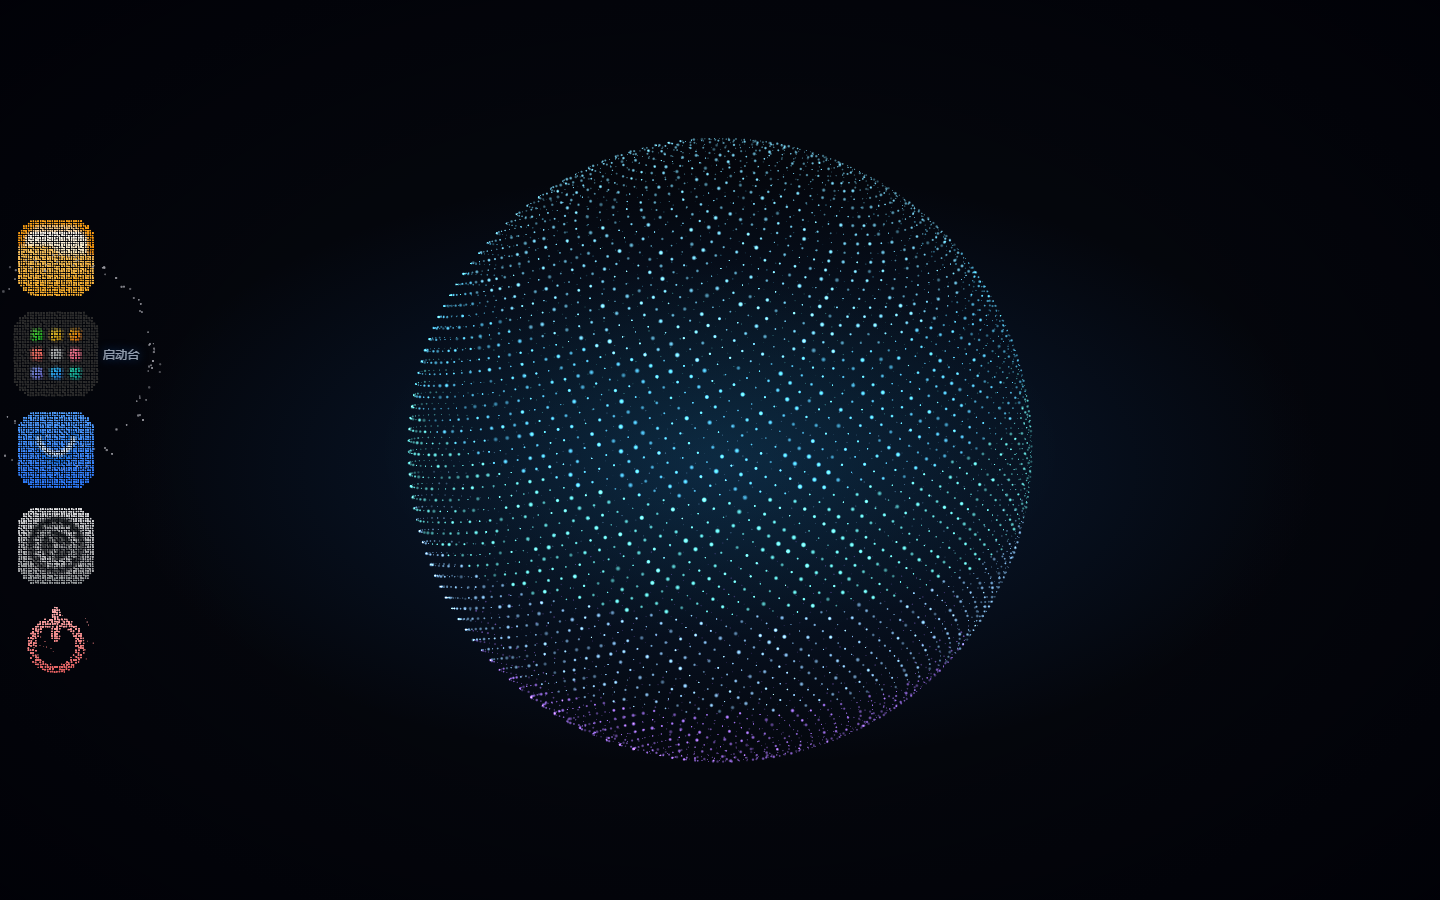
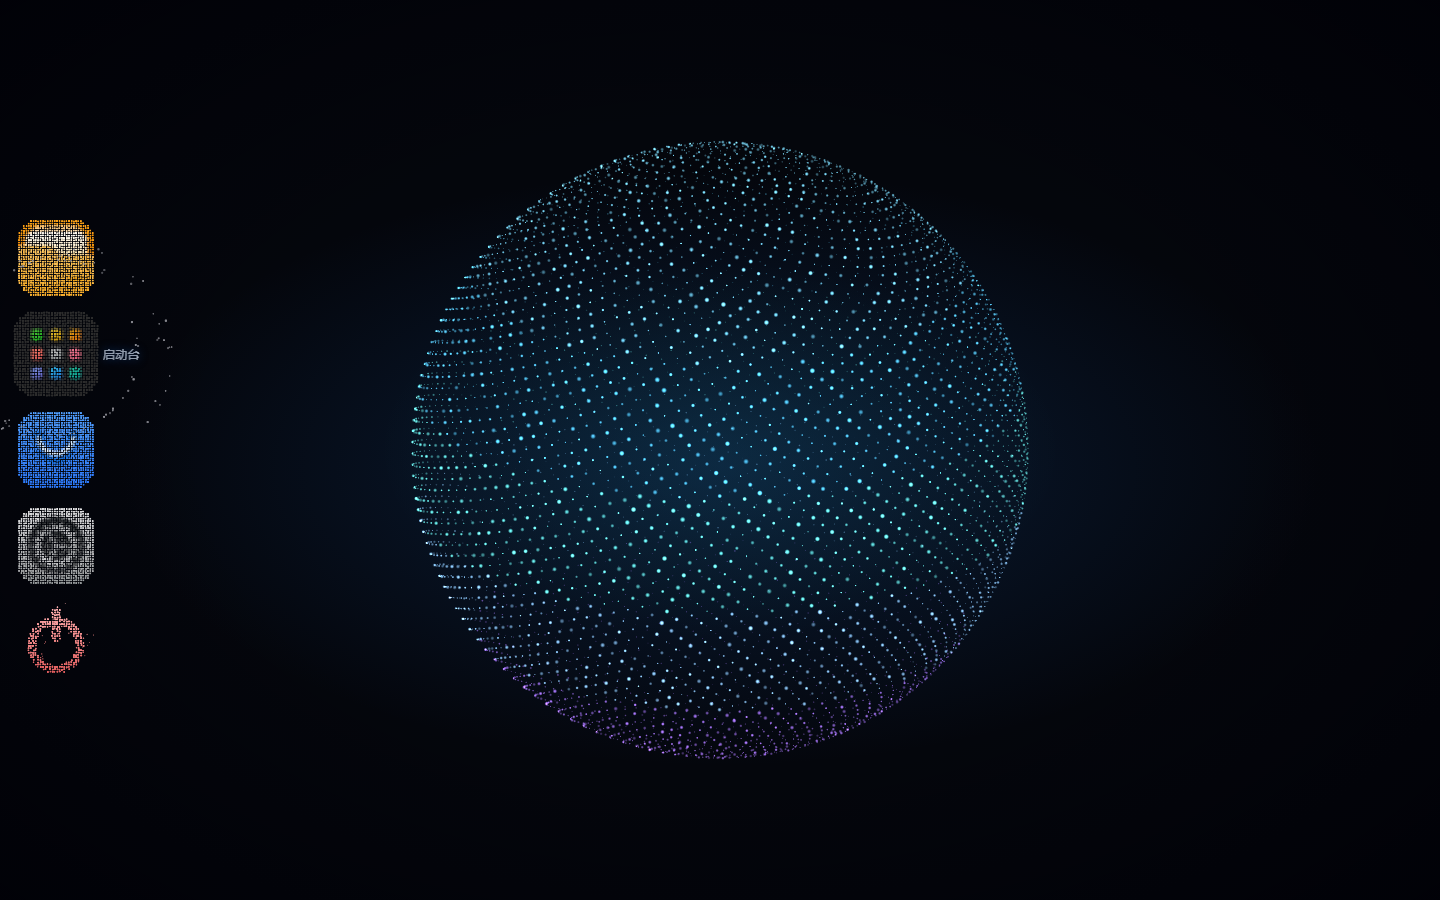
refactor(shell): 去掉跟随光标的粒子层
跨域 iframe 里跟不了手：指针一进窗口内容，父文档就再也收不到 pointermove，
坐标会冻在跨过边界那一点，粒子站在原地不动——比没有还难受。所以这一层整个撤掉。

- 删掉 curGeo / curMat / curPoints（独立普通混合层）与 cPos/cCol/cSize/cAlpha
- 删掉光标专用的 pointermove / pointerover / pointerout / blur 监听（那是为它加的）
- ambient 不再有 1/6 被"征用"，开窗后全部去窗口外缘的日冕；中央一颗不留
- README 与截图同步：窗口那张现在是干净的内容区 + 一圈日冕

diff --git a/shell/src/field.js b/shell/src/field.js
@@ -267,17 +267,6 @@ export class Field {
     this.railActive = -1;              // 已打开应用对应的图标
     this.railDirty = false;
 
-    /* --- 光标周围那一撮（唯一进到窗口中央的粒子）---
-     * 单独一层、**普通透明混合**：背景那团是加法发光，叠在浅色 iframe 上等于看不见
-     * （白底加白点还是白），只能靠普通 alpha 才会显出青色的点。
-     * 每颗点按 i % 11 从 ambient 里"借"，位置不是弹簧算的，直接绕光标转。 */
-    const cn = Math.ceil(AMBIENT_N / 6);
-    this.curN = cn;
-    this.cPos = new Float32Array(cn * 3);
-    this.cCol = new Float32Array(cn * 3);
-    this.cSize = new Float32Array(cn);
-    this.cAlpha = new Float32Array(cn);
-
     /* --- 设备状态面板（右下角）---
      * 和 rail 同构：每颗点记着"从团里哪出发、目标在哪、什么时候出发"，
      * 位置由流的进度决定。区别是这里的目标会**被数据改**
@@ -360,13 +349,6 @@ export class Field {
     this.yawV = 0;
     this.pitchV = 0;
     this.dragging = false;
-
-    /* 鼠标位置（CSS px，视口左上角原点）。只有"有窗口"时才用得上：
-     * 留一小撮粒子跟着光标绕，其余全在窗口外面流。 */
-    this.mx = this.W / 2;
-    this.my = this.H / 2;
-    this.mouseOn = false;
-    this.inFrame = false;    // 指针在 iframe 里：坐标会冻在跨过边界那一点
 
     /* 心跳 */
     this.beat = 0;           // 当前包络 0..1
@@ -546,53 +528,10 @@ export class Field {
     this.statPoints.frustumCulled = false;
     this.statPoints.renderOrder = 3;
 
-    /* ---- 光标粒子层：压在窗口内容之上，用普通混合 ----
-       柔和圆点（不是 rail 的圆角方块，那个是给图标密铺用的）。
-       renderOrder 给到最大：窗口内容和日冕都画完之后才轮到它。 */
-    this.curGeo = new THREE.BufferGeometry();
-    this.curGeo.setAttribute('position', new THREE.BufferAttribute(this.cPos, 3).setUsage(THREE.DynamicDrawUsage));
-    this.curGeo.setAttribute('aColor', new THREE.BufferAttribute(this.cCol, 3).setUsage(THREE.DynamicDrawUsage));
-    this.curGeo.setAttribute('aSize', new THREE.BufferAttribute(this.cSize, 1).setUsage(THREE.DynamicDrawUsage));
-    this.curGeo.setAttribute('aAlpha', new THREE.BufferAttribute(this.cAlpha, 1).setUsage(THREE.DynamicDrawUsage));
-
-    this.curMat = new THREE.ShaderMaterial({
-      uniforms: { uDpr: { value: 1 } },
-      vertexShader: `
-        attribute float aSize; attribute float aAlpha; attribute vec3 aColor;
-        varying vec3 vColor; varying float vAlpha;
-        uniform float uDpr;
-        void main(){
-          vColor = aColor; vAlpha = aAlpha;
-          vec4 mv = modelViewMatrix * vec4(position, 1.0);
-          gl_Position = projectionMatrix * mv;
-          gl_PointSize = aSize * uDpr;
-        }`,
-      fragmentShader: `
-        varying vec3 vColor; varying float vAlpha;
-        void main(){
-          /* 圆点，边缘留一点点柔化：pow 太软会整层糊成"蓝雾"（试过 1.6），
-             这里芯是实的、只在外沿 40% 化开 */
-          float d = length(gl_PointCoord - 0.5) * 2.0;
-          if (d > 1.0) discard;
-          float a = smoothstep(1.0, 0.58, d);
-          gl_FragColor = vec4(vColor, a * vAlpha);
-        }`,
-      transparent: true,
-      depthTest: false,
-      depthWrite: false,
-      blending: THREE.NormalBlending,
-    });
-
-    this.curPoints = new THREE.Points(this.curGeo, this.curMat);
-    this.curPoints.frustumCulled = false;
-    this.curPoints.renderOrder = 6;
-
-
     this.scene = new THREE.Scene();
     this.scene.add(this.points);
     this.scene.add(this.railPoints);
     this.scene.add(this.statPoints);
-    this.scene.add(this.curPoints);
 
     this.renderer = new THREE.WebGLRenderer({ canvas, antialias: false, alpha: true, powerPreference: 'high-performance' });
     this.renderer.setClearColor(0x000000, 0);
@@ -697,34 +636,6 @@ export class Field {
     window.addEventListener('pointerup', up);
     window.addEventListener('pointercancel', up);
 
-    /* 光标的**全局**位置：上面那个 move 只在"按住"时工作，而这一小撮跟着光标的
-       粒子需要一直知道它在哪。没有 pointermove 时（指针移出窗口）就把光圈收掉。 */
-    window.addEventListener('pointermove', (e) => {
-      this.mx = e.clientX;
-      this.my = e.clientY;
-      this.mouseOn = true;
-      this.inFrame = false;     // 能从父文档收到 move，说明指针不在 iframe 里
-    }, { passive: true });
-    /* 指针进 / 出 iframe：父文档只在**跨过边界那一下**收到事件，之后移动全被 iframe
-       吞掉（跨文档，拿不到坐标）。所以要记住这一下：一是别把它误判成"指针离开桌面"
-       （跨文档时 relatedTarget 也是 null），二是让光圈知道该切到"跟不动"的形态。 */
-    document.addEventListener('pointerover', (e) => {
-      const inF = !!e.target && e.target.tagName === 'IFRAME';
-      this.inFrame = inF;
-      if (inF) {
-        this.mx = e.clientX;
-        this.my = e.clientY;
-        this.mouseOn = true;
-      }
-    }, { passive: true });
-    document.addEventListener('pointerout', (e) => {
-      if (e.relatedTarget) return;
-      /* relatedTarget 为 null 有两种情况：真的移出视口、或指针进了 iframe。
-         只有坐标贴在视口边缘才当它离开（否则窗口内容一悬停，光圈就没了）。 */
-      if (e.clientX <= 0 || e.clientY <= 0
-        || e.clientX >= this.W - 1 || e.clientY >= this.H - 1) this.mouseOn = false;
-    }, { passive: true });
-    window.addEventListener('blur', () => { if (!this.inFrame) this.mouseOn = false; });
   }
 
   /**
@@ -792,7 +703,6 @@ export class Field {
     this.renderer.setSize(this.W, this.H, true);
     this.mat.uniforms.uDpr.value = dpr;
     this.railMat.uniforms.uDpr.value = dpr;
-    this.curMat.uniforms.uDpr.value = dpr;
     this.cam.left = -this.W / 2;
     this.cam.right = this.W / 2;
     this.cam.top = this.H / 2;
@@ -1816,12 +1726,6 @@ export class Field {
       );
       bandMax = clamp(room * 0.94, 6, AURA_MAX);
     }
-    /* 跟着光标的那一小撮（每 6 颗取 1 颗 ≈ 17%）：只有"有窗口"时才出现 */
-    const mw = this.mouseOn && auraW > 0.05 ? auraW : 0;
-    /* 应用列表里不出现：那里每个图标自己有一圈流，再叠一层会抢戏 */
-    const curOn = mw > 0.002 && this.launchMode === 0;
-    if (!curOn) this.cAlpha.fill(0);      // 没窗口 / 指针不在：整层立刻收掉
-
     /* 拖动（或松手后还在惯性转）时把弹簧压紧：
        目标位置每帧都在跳，弹簧软了粒子就追不上——球会被拖成椭圆（实测横向掉 10%）。
        停稳后回落到 46，保留粒子自己那点呼吸。 */
@@ -1834,8 +1738,6 @@ export class Field {
     for (let i = 0; i < n; i++) {
       const i3 = i * 3, i2 = i * 2;
       let tx, ty, z2 = 0, em = 1, szm = 1;
-      /* 光标粒子不在球面上，深度明暗不适用（否则一半点会被"后侧变暗"压掉） */
-      let cursorDot = false;
       /* 流线：沿"流动方向"把圆点拉长，静止画面也读得出在往哪边流（和窗口门同一套） */
       let dirX = 0, dirY = 0, strK = 0;
 
@@ -1943,71 +1845,16 @@ export class Field {
         em = lerp(em, emA, auraW);
       }
 
-      /* ---- 光标周围那一撮：**唯一被豁免进窗口中央**的粒子 ----
-         它单独一层（普通混合、renderOrder 最大），所以能压在窗口内容上面而不被遮掉；
-         位置不经过弹簧，直接绕光标转 —— 少了阻尼，跟手。 */
-      if (curOn && i % 6 === 0) {
-        cursorDot = true;
-        const ci = (i / 6) | 0;
-        const jn = ci;
-        const tier = jn % 10;
-        /* 九分之一贴身（9~32px）：不留成"空心环"——一圈亮尘中间空一块，
-           远看像个黑洞。贴身的点最小最淡，压不住光标箭头 */
-        const close = jn % 9 === 0;
-        const near = close ? 0.55 : tier < 5 ? 1 : tier < 8 ? 0.62 : 0.34;
-        const rr = close
-          ? 10 + (jn % 6) * 4.0
-          : tier < 5 ? 34 + (jn % 6) * 6.2
-            : tier < 8 ? 68 + (jn % 5) * 8.0 : 104 + (jn % 4) * 12;
-        const spin = close ? 1.55 : tier < 5 ? 1.15 : tier < 8 ? 0.66 : 0.34;
-        /* 三条旋臂 + 臂内散布 + 半径越大越超前（rr*0.010）：
-           均匀撒角度是一团"雪"，拧成臂才看得出是在转的一小团涡旋 */
-        const arm = (jn % 3) * 2.0944;
-        const jit = (((jn * 0.6180339887) % 1) - 0.5) * 1.15;
-        const ang = arm + jit + t * spin + rr * 0.013;
-        const br = 1 + 0.08 * Math.sin(t * 1.8 + jn * 1.3);   // 径向轻呼吸
-        let px = Math.cos(ang) * rr * br;
-        let py = Math.sin(ang) * rr * br * 0.84;               // 略扁：一层沿光标铺开的尘
-        if (this.inFrame) {
-          /* 指进 iframe 之后父文档再也收不到 move（跨文档），坐标会冻在跨过边界那一点。
-             让它在那儿慢慢游走，别"死停"——至少看得出来是活的。 */
-          px += Math.sin(t * 0.55 + jn * 1.7) * 14;
-          py += Math.cos(t * 0.47 + jn * 2.3) * 14;
-        }
-        const wx = this.mx - this.W / 2 + px;
-        const wy = this.H / 2 - this.my + py;
-        this.cPos[ci * 3] = wx;
-        this.cPos[ci * 3 + 1] = wy;
-        this.cPos[ci * 3 + 2] = 0;
-        /* 点径按层给：近芯小而亮、外晕更小更淡（大的会像"饼"） */
-        /* 点径压到 4.8px 以内：再大就叠成一块"膏"，读不出是一颗颗的点 */
-        this.cSize[ci] = (1.9 + 2.3 * near) * (1 + 0.30 * beat);
-        this.cAlpha[ci] = mw * (0.52 + 0.34 * near) * (1 + 0.45 * beat);
-        /* 颜色：近芯偏青白，外晕偏靛蓝 —— 在浅色内容上是一层冷暖交替的尘 */
-        const ct = near;
-        this.cCol[ci * 3] = 0.26 + 0.42 * ct;
-        this.cCol[ci * 3 + 1] = 0.62 + 0.30 * ct;
-        this.cCol[ci * 3 + 2] = 1.0;
-      }
-
       V[i2] = (V[i2] + (tx - P[i3]) * k * dt) / (1 + c * dt);
       V[i2 + 1] = (V[i2 + 1] + (ty - P[i3 + 1]) * k * dt) / (1 + c * dt);
       P[i3] += V[i2] * dt;
       P[i3 + 1] += V[i2 + 1] * dt;
 
-      if (cursorDot) {
-        /* 这一颗只在光标层画：主层是加法发光，叠在浅色 iframe 上等于看不见，
-           留着只会让"日冕"在边缘多一层没用的白雾 */
-        this.alpha[i] = 0;
-        this.aStr[i] = 0;
-        continue;
-      }
-
       /* 远侧更小更暗：正交投影里唯一的立体线索（ambient 的 baseA 只有 0.2~0.54，
          形态态要提上去才看得清，否则整团是灰的）。
          深处的点更小更暗：球面投影在轮廓处会挤成一道亮弧（看着像盘子边），
          用"前大后小"把这个堆积压掉，球体感也更明确。 */
-      const dzk = grid || cursorDot ? 1 : clamp(0.52 + z2 * 0.50, 0.22, 1.18);
+      const dzk = grid ? 1 : clamp(0.52 + z2 * 0.50, 0.22, 1.18);
       /* occ：有窗口时压暗 —— 但改道到日冕之后（auraW→1）就不压了，
          否则窗口外面那圈会灰得看不见 */
       const sa = this.baseA[i] * dzk * 2.9 * dim * em
@@ -2024,10 +1871,6 @@ export class Field {
 
     this.geo.attributes.aDir.needsUpdate = true;
     this.geo.attributes.aStr.needsUpdate = true;
-    this.curGeo.attributes.position.needsUpdate = true;
-    this.curGeo.attributes.aColor.needsUpdate = true;
-    this.curGeo.attributes.aSize.needsUpdate = true;
-    this.curGeo.attributes.aAlpha.needsUpdate = true;
   }
 
   /**

diff --git a/README.md b/README.md
@@ -138,17 +138,14 @@ Three.js · 无框架、无构建 · MIT
 
 ### 开窗之后：让开内容
 
-窗口占着的那块**不画任何背景粒子**。剩下的全部改道到窗口外缘的一圈「日冕」，贴着边框 8~84px 往外流，
+窗口占着的那块**不画任何粒子**。剩下的全部改道到窗口外缘的一圈「日冕」，贴着边框 8~84px 往外流，
 沿周长漂 + 三道亮波；余量不够时自动收窄（最大化的窗口只剩贴着屏幕边的一条）。
 
-**唯一被豁免进中央的，是光标周围那一撮**：约 1067 颗（`i % 6`）单独一层、**普通透明混合**，
-所以能压在 iframe 内容上面——背景那层是加法发光，叠在浅色内容上等于看不见（白底加白点还是白）。
-布局是一个小涡旋：三条旋臂 + 半径越大越超前，10~140px 分四层（贴身 10~30 / 近芯 34~65 / 中层 68~100 / 外晕 104~140），
-逐层转速不同（近快远慢）→ 剪切感；心跳时整撮一起闪一下、点径放大 30%。
-指针进到 iframe 里之后父文档再也收不到 `pointermove`（跨文档），坐标会冻在跨过边界那一点——
-这时它改成原地慢慢游走，不会「死停」。
+早先还有一小撮粒子跟着光标、允许进到中央（想的是"光标周围也有粒子"），已经去掉了：
+iframe 是跨域的，指针一进去父文档就再也收不到 `pointermove`，坐标会冻在跨过边界那一点——
+粒子不跟手比没有还难受。所以中央干脆一颗都不留，光标交给系统。
 
-![开窗后：中央没有粒子，外缘一圈日冕 + 光标周围一层尘](docs/images/shell-window.png)
+![开窗后：中央没有粒子，只有外缘一圈日冕](docs/images/shell-window.png)
 
 ### 右下角设备状态
 
@@ -275,7 +272,7 @@ deploy/switch.sh status             # 看当前指向哪边
 - [x] 左边缘应用栏：官方图标点阵、悬停增援、粒子流进出
 - [x] 粒子门：开窗环流放大 / 关窗多条小流汇聚，内容从雾里析出
 - [x] 应用列表：甩动进 3D 圆环 → 2D 平铺，逐图标一圈粒子流
-- [x] 开窗后粒子让开内容：外缘日冕 + 光标周围一层可进中央的尘（独立混合层）
+- [x] 开窗后粒子让开内容：全部改道到窗口外缘的日冕，中央一颗不留
 - [x] 右下角设备状态：官方遥测接口 + 点阵仪表盘
 - [x] 全屏、注入式调试链路、不改进官方镜像的部署与切换
 
